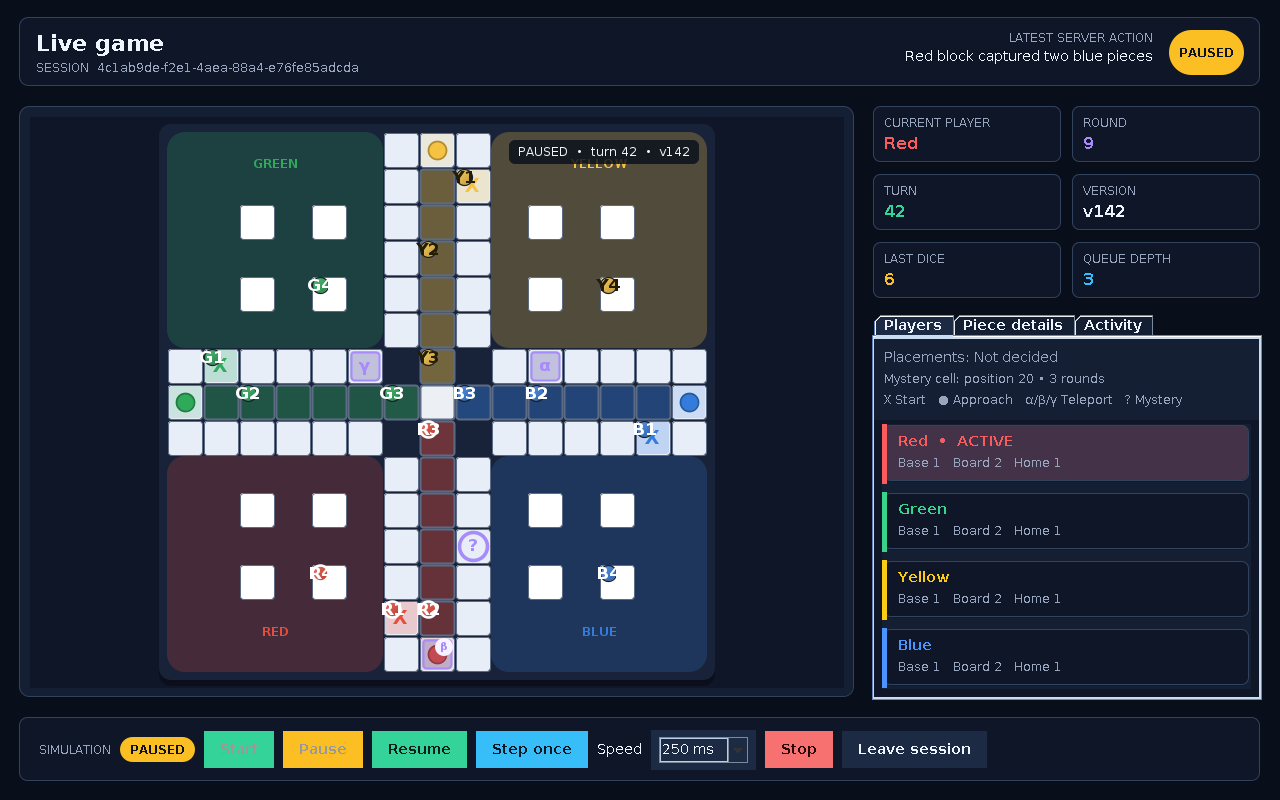
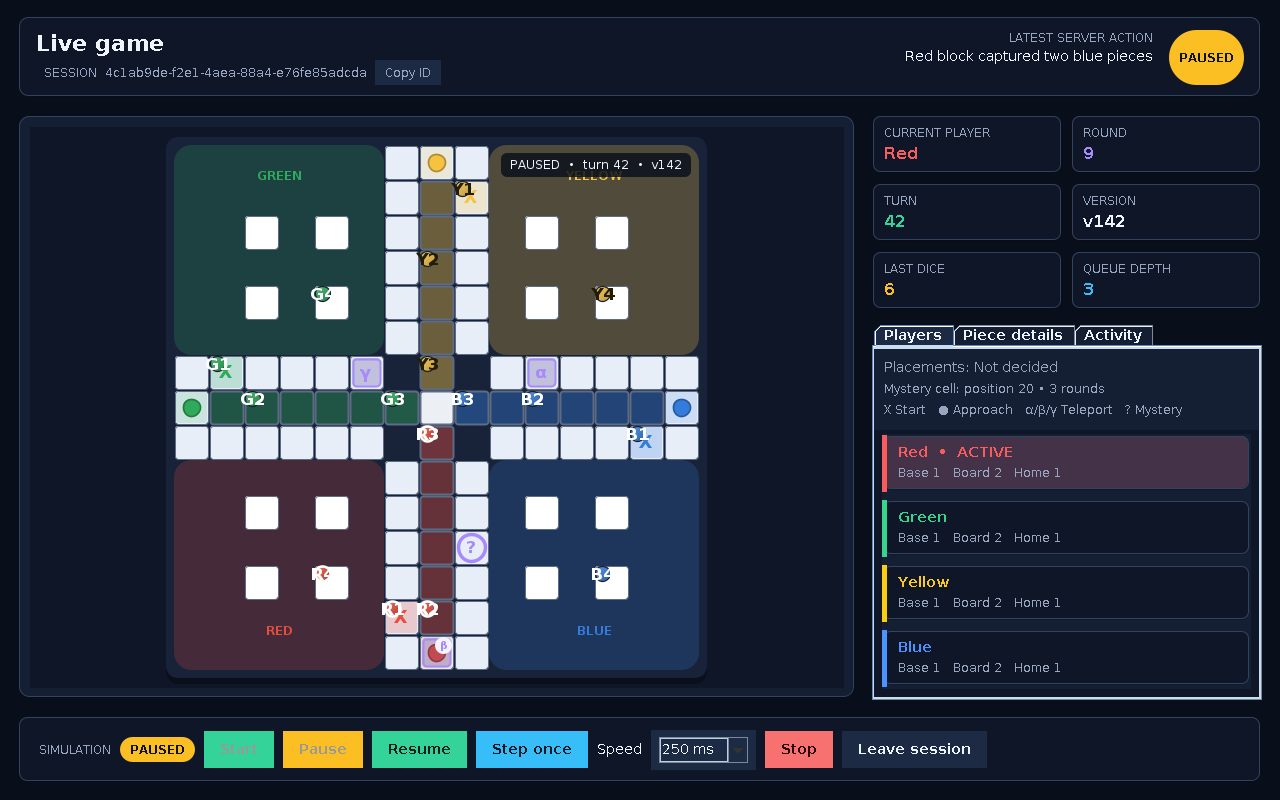
Rapid client tests check. Can copy session id from the ui

diff --git a/client-app/src/main/java/client/ui/GamePanel.java b/client-app/src/main/java/client/ui/GamePanel.java
@@ -3,16 +3,23 @@ package client.ui;
 import java.awt.BorderLayout;
 import java.awt.Color;
 import java.awt.Dimension;
+import java.awt.FlowLayout;
 import java.awt.GridLayout;
+import java.awt.Toolkit;
+import java.awt.datatransfer.StringSelection;
 import java.util.List;
+import java.util.UUID;
+import java.util.function.Consumer;
 import javax.swing.BorderFactory;
 import javax.swing.Box;
 import javax.swing.BoxLayout;
+import javax.swing.JButton;
 import javax.swing.JLabel;
 import javax.swing.JPanel;
 import javax.swing.JScrollPane;
 import javax.swing.JTabbedPane;
 import javax.swing.JTextArea;
+import javax.swing.Timer;
 import protocol.GameSnapshotDto;
 
 /** Detailed live-game dashboard built entirely from transport-safe protocol DTOs. */
@@ -21,8 +28,10 @@ public final class GamePanel extends JPanel {
     private final BoardPanel board = new BoardPanel();
     private final ControlPanel controls;
     private final EventLogPanel eventLog = new EventLogPanel();
+    private final Consumer<String> clipboardWriter;
     private final JLabel sessionId =
             AppTheme.label("Session -", AppTheme.SMALL, AppTheme.TEXT_MUTED);
+    private final JButton copySessionId = new JButton("Copy ID");
     private final JLabel action =
             AppTheme.label("Waiting for a snapshot", AppTheme.BODY, AppTheme.TEXT);
     private final JLabel placements =
@@ -43,9 +52,18 @@ public final class GamePanel extends JPanel {
     private final MetricCard queue = new MetricCard("Queue depth", AppTheme.ACCENT);
     private final JPanel players = new JPanel(new GridLayout(0, 1, 8, 8));
     private final JTextArea pieceDetails = new JTextArea(14, 30);
+    private UUID renderedSessionId;
 
     public GamePanel() {
-        this(() -> {}, () -> {}, () -> {}, () -> {}, () -> {}, ignored -> {}, () -> {});
+        this(
+                () -> {},
+                () -> {},
+                () -> {},
+                () -> {},
+                () -> {},
+                ignored -> {},
+                () -> {},
+                GamePanel::writeToSystemClipboard);
     }
 
     public GamePanel(
@@ -56,7 +74,28 @@ public final class GamePanel extends JPanel {
             Runnable stopAction,
             java.util.function.LongConsumer speedAction,
             Runnable leaveAction) {
+        this(
+                startAction,
+                pauseAction,
+                resumeAction,
+                stepAction,
+                stopAction,
+                speedAction,
+                leaveAction,
+                GamePanel::writeToSystemClipboard);
+    }
+
+    GamePanel(
+            Runnable startAction,
+            Runnable pauseAction,
+            Runnable resumeAction,
+            Runnable stepAction,
+            Runnable stopAction,
+            java.util.function.LongConsumer speedAction,
+            Runnable leaveAction,
+            Consumer<String> clipboardWriter) {
         super(new BorderLayout(16, 16));
+        this.clipboardWriter = java.util.Objects.requireNonNull(clipboardWriter, "clipboardWriter");
         setBackground(AppTheme.BACKGROUND);
         setBorder(BorderFactory.createEmptyBorder(16, 18, 16, 18));
         controls =
@@ -97,9 +136,24 @@ public final class GamePanel extends JPanel {
         JPanel title = new JPanel();
         title.setOpaque(false);
         title.setLayout(new BoxLayout(title, BoxLayout.Y_AXIS));
-        title.add(AppTheme.label("Live game", AppTheme.TITLE, AppTheme.TEXT));
+        JLabel liveGame = AppTheme.label("Live game", AppTheme.TITLE, AppTheme.TEXT);
+        liveGame.setAlignmentX(LEFT_ALIGNMENT);
+        title.add(liveGame);
         title.add(Box.createVerticalStrut(3));
-        title.add(sessionId);
+
+        AppTheme.styleButton(copySessionId, AppTheme.SURFACE_RAISED, AppTheme.TEXT_MUTED);
+        copySessionId.setFont(AppTheme.SMALL);
+        copySessionId.setBorder(BorderFactory.createEmptyBorder(5, 10, 5, 10));
+        copySessionId.setEnabled(false);
+        copySessionId.setToolTipText("Copy the complete session UUID");
+        copySessionId.addActionListener(ignored -> copyRenderedSessionId());
+
+        JPanel sessionRow = new JPanel(new FlowLayout(FlowLayout.LEFT, 8, 0));
+        sessionRow.setOpaque(false);
+        sessionRow.setAlignmentX(LEFT_ALIGNMENT);
+        sessionRow.add(sessionId);
+        sessionRow.add(copySessionId);
+        title.add(sessionRow);
 
         JPanel activity = new JPanel();
         activity.setOpaque(false);
@@ -173,11 +227,18 @@ public final class GamePanel extends JPanel {
         board.setSnapshot(snapshot);
         eventLog.setEvents(events);
         if (snapshot == null) {
+            renderedSessionId = null;
+            sessionId.setText("SESSION  -");
+            copySessionId.setText("Copy ID");
+            copySessionId.setEnabled(false);
             controls.applyStatus(null);
             return;
         }
 
+        renderedSessionId = snapshot.sessionId();
         sessionId.setText("SESSION  " + snapshot.sessionId());
+        copySessionId.setText("Copy ID");
+        copySessionId.setEnabled(true);
         status.setPill(snapshot.status().name(), AppTheme.statusColor(snapshot.status().name()));
         round.setValue(Integer.toString(snapshot.round()));
         turn.setValue(Long.toString(snapshot.turn()));
@@ -211,6 +272,42 @@ public final class GamePanel extends JPanel {
         pieceDetails.setText(pieceSummary(snapshot));
         pieceDetails.setCaretPosition(0);
         controls.applyStatus(snapshot.status());
+    }
+
+    void copyRenderedSessionId() {
+        if (renderedSessionId == null) return;
+        try {
+            clipboardWriter.accept(renderedSessionId.toString());
+            showCopyFeedback("Copied!", AppTheme.SUCCESS);
+        } catch (RuntimeException failure) {
+            showCopyFeedback("Copy failed", AppTheme.DANGER);
+            copySessionId.setToolTipText("Clipboard unavailable: " + failure.getMessage());
+        }
+    }
+
+    boolean isSessionIdCopyEnabled() {
+        return copySessionId.isEnabled();
+    }
+
+    private void showCopyFeedback(String text, Color color) {
+        copySessionId.setText(text);
+        copySessionId.setForeground(color);
+        Timer timer =
+                new Timer(
+                        1400,
+                        ignored -> {
+                            copySessionId.setText("Copy ID");
+                            copySessionId.setForeground(AppTheme.TEXT_MUTED);
+                            copySessionId.setToolTipText("Copy the complete session UUID");
+                        });
+        timer.setRepeats(false);
+        timer.start();
+    }
+
+    private static void writeToSystemClipboard(String value) {
+        Toolkit.getDefaultToolkit()
+                .getSystemClipboard()
+                .setContents(new StringSelection(value), null);
     }
 
     private void rebuildPlayers(GameSnapshotDto snapshot) {

diff --git a/client-app/src/test/java/client/ui/GamePanelTest.java b/client-app/src/test/java/client/ui/GamePanelTest.java
@@ -1,0 +1,59 @@
+package client.ui;
+
+import static org.junit.jupiter.api.Assertions.assertEquals;
+import static org.junit.jupiter.api.Assertions.assertFalse;
+import static org.junit.jupiter.api.Assertions.assertTrue;
+
+import java.util.List;
+import java.util.UUID;
+import java.util.concurrent.atomic.AtomicReference;
+import javax.swing.SwingUtilities;
+import org.junit.jupiter.api.Test;
+import protocol.GameSnapshotDto;
+import protocol.SessionStatus;
+
+class GamePanelTest {
+
+    @Test
+    void copiesTheCompleteRenderedSessionId() throws Exception {
+        UUID sessionId = UUID.fromString("7e47cf31-75fa-4c58-ab4e-2a17b55fe07e");
+        AtomicReference<String> clipboard = new AtomicReference<>();
+
+        SwingUtilities.invokeAndWait(
+                () -> {
+                    GamePanel panel =
+                            new GamePanel(
+                                    () -> {},
+                                    () -> {},
+                                    () -> {},
+                                    () -> {},
+                                    () -> {},
+                                    ignored -> {},
+                                    () -> {},
+                                    clipboard::set);
+
+                    assertFalse(panel.isSessionIdCopyEnabled());
+                    panel.render(snapshot(sessionId), List.of(), "Ready");
+                    assertTrue(panel.isSessionIdCopyEnabled());
+
+                    panel.copyRenderedSessionId();
+                    assertEquals(sessionId.toString(), clipboard.get());
+
+                    panel.render(null, List.of(), "");
+                    assertFalse(panel.isSessionIdCopyEnabled());
+                });
+    }
+
+    private GameSnapshotDto snapshot(UUID sessionId) {
+        return new GameSnapshotDto(
+                sessionId,
+                1,
+                1,
+                SessionStatus.PAUSED,
+                List.of(),
+                new GameSnapshotDto.MysteryDto(false, -1, 0),
+                "",
+                0,
+                "Created");
+    }
+}

diff --git a/client-app/UI_REPLACEMENT_README.md b/client-app/UI_REPLACEMENT_README.md
@@ -8,6 +8,7 @@ This folder is a drop-in replacement for the existing `client-app` module.
 - Simplified LUDO-T connection screen with clear server and client status.
 - Detailed session lobby with status, client count, version and creation time.
 - Live-game dashboard with status pills, metrics, player cards and tabs.
+- One-click copying of the complete session UUID for rapid-client commands.
 - Assignment 1-aligned board painting: Green/Yellow/Red/Blue bases, clockwise numbering from Yellow X, coloured approach circles, Alpha/Beta/Gamma teleport destinations, active-player outlines and temporary mystery-cell styling.
 - Restyled simulation controls and live activity view.
 
